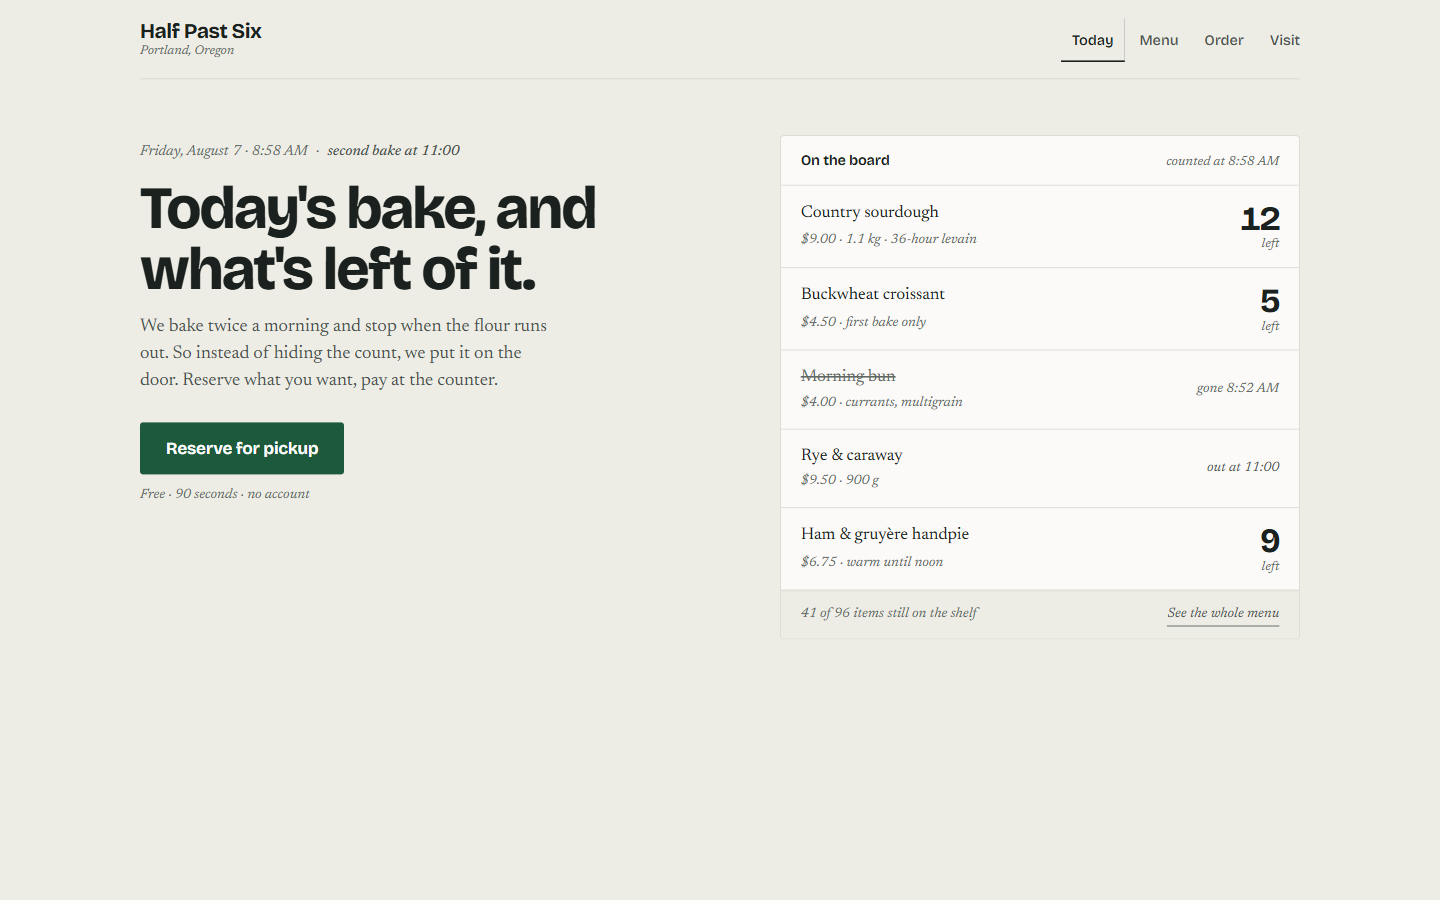
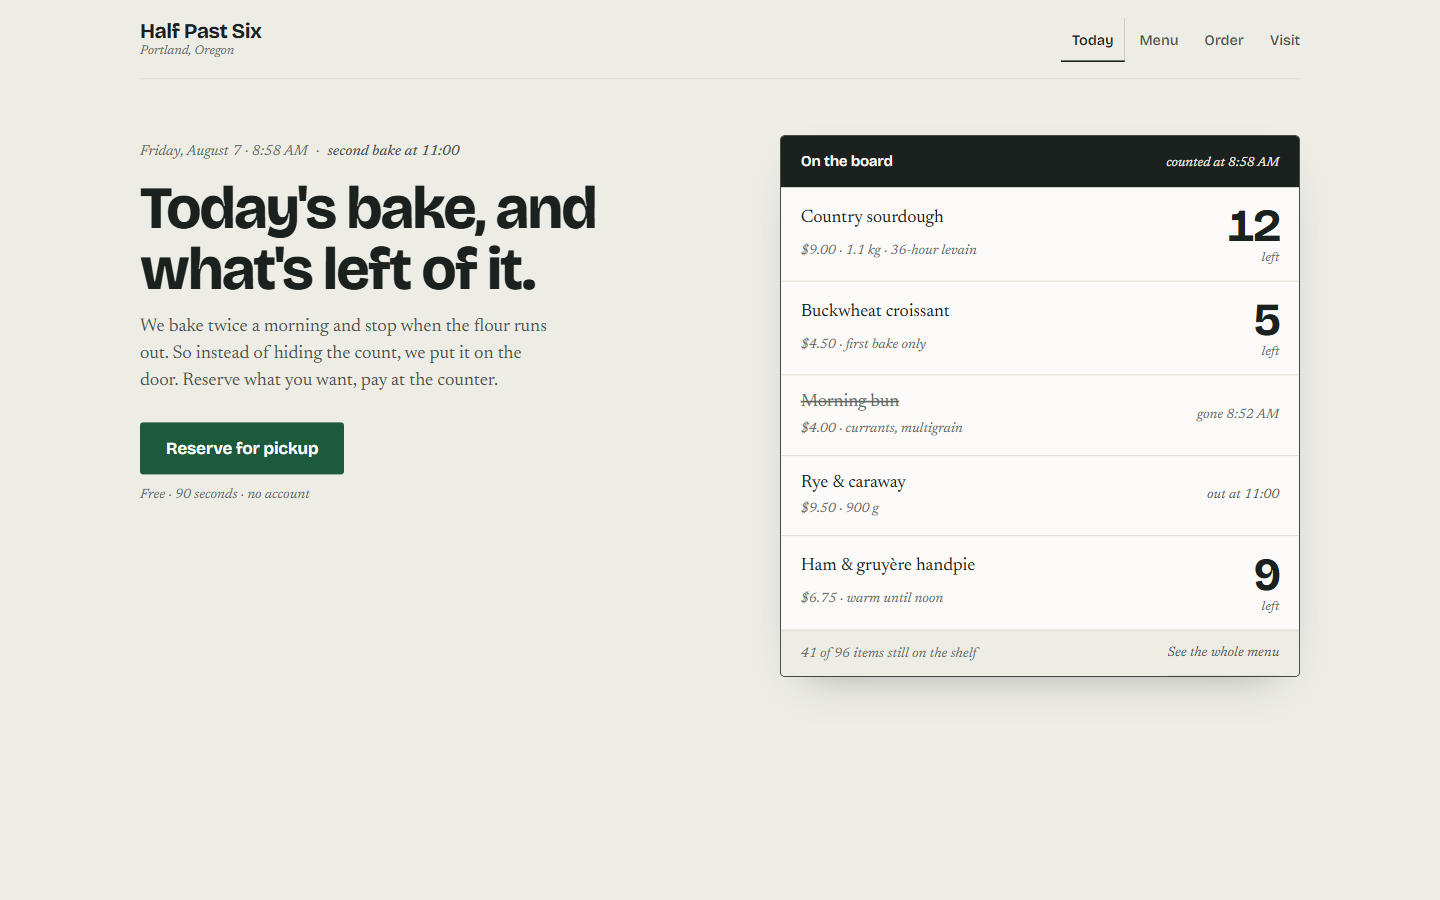
Phase 2 audit: premium checklist 3/7, fix 02 applied
Client verdict at the gate. Ran the seven-point checklist with measured
findings: hero does not own the desktop screen (263px dead space), the board
dissolves into the background, origin proof absent. Report in
research/premium-audit.md.

Fix 02 applied first as the biggest win: board head is now an iron slab with
light text, iron frame, lift shadow, counts up to 46px. Re-measured: zero
contrast failures (slab 15.7:1 / 13.9:1), taps >= 44px. Fixes 01+03 and 05
queued one at a time.

diff --git a/mockup/mockup.css b/mockup/mockup.css
@@ -123,23 +123,28 @@ h1 {
 }
 
 /* ---------- Доска: подпись проекта ---------- */
+/* Аудит по чек-листу, пункт 02: linen на flour растворялась в фоне.
+   Доска обязана читаться как доска за прилавком — тёмная планка-шапка,
+   рамка в цвет чугуна, отрыв тенью от стола */
 
 .board {
   background: var(--linen);
-  border: 1px solid var(--rule);
-  border-radius: 4px;
+  border: 1px solid var(--iron);
+  border-radius: 5px;
   overflow: hidden;
+  box-shadow: 0 18px 44px -26px rgba(27, 33, 30, 0.45);
 }
 .board-head {
   display: flex; align-items: baseline; justify-content: space-between; gap: 12px;
-  padding: 13px 16px; border-bottom: 1px solid var(--rule);
+  padding: 14px 16px;
+  background: var(--iron);
 }
 .board-head h2 {
-  font-family: var(--display); font-size: 14.5px; font-weight: 600;
-  letter-spacing: -0.01em; margin: 0; color: var(--iron);
+  font-family: var(--display); font-size: 15px; font-weight: 600;
+  letter-spacing: -0.01em; margin: 0; color: var(--linen);
 }
 .board-head .when { font-family: var(--body); font-style: italic;
-  font-size: 13px; color: var(--iron-3);
+  font-size: 13px; color: var(--flour);
   font-variant-numeric: lining-nums; }
 
 .row {
@@ -157,7 +162,7 @@ h1 {
 .row .count {
   grid-column: 2; grid-row: 1 / span 2;
   font-family: var(--display); font-weight: 700;
-  font-size: 30px; line-height: 1; letter-spacing: -0.04em;
+  font-size: 34px; line-height: 1; letter-spacing: -0.04em;
   text-align: right; font-variant-numeric: tabular-nums;
 }
 .row .count small {
@@ -214,8 +219,10 @@ h1 {
   }
   .fold > .col-left { padding-top: 6px; }
   .lede { font-size: 18.5px; margin-bottom: 28px; }
+  .row .count { font-size: 46px; }
+  .row .name { font-size: 18px; }
+  /* Отступы строк остаются пунктом 03 — здесь только иерархия */
   .row { padding: 16px 20px; }
-  .row .count { font-size: 34px; }
   .board-head, .board-foot { padding-left: 20px; padding-right: 20px; }
 }
 

diff --git a/research/premium-audit.md b/research/premium-audit.md
@@ -1,0 +1,62 @@
+# Аудит по премиум-чек-листу — ворота приёмки фазы 2
+
+Прогнан 7 августа 2026 по `mockup/index.html` на 375×670 и 1440×900.
+Все числа замерены скриптами в браузере, не на глаз. Каждый пункт привязан
+к исследованию (`ux-research.md`) и плану дизайна (`design-plan.md`).
+
+## Отчёт
+
+```
+01 Hero           FAIL — подпись проекта (строка «gone 8:52») на 685px при
+                  сгибе 670; на 1440×900 контент кончается на 637px, ниже
+                  263px пустой муки, под левой колонкой 204px
+   Fix: index.html:65 — строку gone на вторую позицию;
+        mockup.css:213 — align-items: center + min-height: calc(100vh - 79px)
+
+02 Hierarchy      FAIL — доска #FBFAF8 на фоне #EDEDE6 растворяется, рамка
+                  волосяная #D8D8CE, число 34px против h1 60px. Тезис
+                  исследования свёрстан как виджет в правой колонке
+   Fix: mockup.css:127-143 — шапка доски в iron со светлым текстом, рамка
+        iron, тень-отрыв; счётчики 30→34 (моб.) и 34→46 (десктоп)
+
+03 Whitespace     FAIL — 204px случайной пустоты под колонкой; строки доски
+                  сжаты до 14px вертикали
+   Fix: центрирование из 01; mockup.css:217 — padding строк 16px 20px →
+        19px 22px, шапка/подвал 13px → 15px
+
+04 Contrast       PASS — скрипт по каждому узлу: 0 ниже 4.5:1 на обеих
+                  страницах; акцент один (decisions 2.12)
+
+05 Social proof   FAIL — страх №2 исследования («это не они пекут») на
+                  первом экране не закрыт ничем: ни года, ни людей, ни муки
+   Fix: index.html:29-33 — штамп получает факт происхождения
+        («baking since 2018»); полный блок процесса остаётся блоком 5
+
+06 Typography     PASS — 2 семейства, тело 16px/1.55, подводка ≤40ch
+
+07 Mobile         PASS — scrollWidth 375 = clientWidth, 0 тап-зон < 44px,
+                  viewport-мета на месте, CTA на 326–378px — зона пальца
+
+Счёт: 3/7
+Самый большой выигрыш: 02 — доска обязана выглядеть как доска
+```
+
+## Журнал правок
+
+Правки идут по одной, каждая с доказательством. Порядок: 02 → 01+03 → 05.
+
+### 02 — сделано
+
+Шапка доски — тёмная планка `iron` со светлым текстом (это и есть доска за
+прилавком), рамка `iron` вместо волосяной, тень-отрыв от стола, числа
+остатка 34px на мобильном и 46px на десктопе, имена строк 18px.
+
+Перезамер: нарушений контраста 0 (планка: заголовок 15.7:1, время 13.9:1),
+тап-зоны все ≥44px, тезисный элемент теперь самый громкий после h1.
+
+### 01 + 03 — в очереди, ждут реакции на 02
+
+### 05 — в очереди
+
+Формулировка факта происхождения зависит от легенды (год 2018 утверждён в
+интейке), адрес появится только после проверки в фазе 3.

diff --git a/research/decisions.md b/research/decisions.md
@@ -46,3 +46,5 @@
 | 2.10 | Логотип и текстовые ссылки-действия получают `min-height: 44px` | Замер макета поймал логотип 105×20 и ссылку 103×33. Правило уходит в токены, а не в разовую правку |
 | 2.11 | Моноширинная роль снята целиком: метки и цены — курсив Newsreader, служебные заголовки и навигация — Bricolage строчными | Замечание заказчика на воротах приёмки: mono-капслук с разрядкой выглядит шаблонно и «как ИИ». Согласен — это один из самых узнаваемых приёмов генерации. Капслук и разрядка убраны вместе со шрифтом |
 | 2.12 | Акцент вычищен до строго одной работы: из штампа, ссылок, выбранных состояний и фокуса `fir` убран | Ревизия по следам 2.11 нашла четыре протечки зелёного мимо кнопки. Ссылки — подчёркивание в цвете текста, выделение и фокус — `iron` |
+| 2.13 | Макет прогнан через премиум-чек-лист: счёт 3/7, отчёт в `premium-audit.md`, правки идут по одной | Заказчик на воротах: «всё выглядит ужасно». Аудит подтвердил три провала замерами — доска растворялась в фоне, герой не владел экраном, страх №2 не закрыт. Вкус заменён числами |
+| 2.14 | Шапка доски — тёмная планка `iron` со светлым текстом, рамка `iron`, тень-отрыв, числа до 46px | Пункт 02 аудита: тезисный элемент был свёрстан тише собственного заголовка. Тёмная планка и есть доска за прилавком — единственный тёмный якорь страницы |
